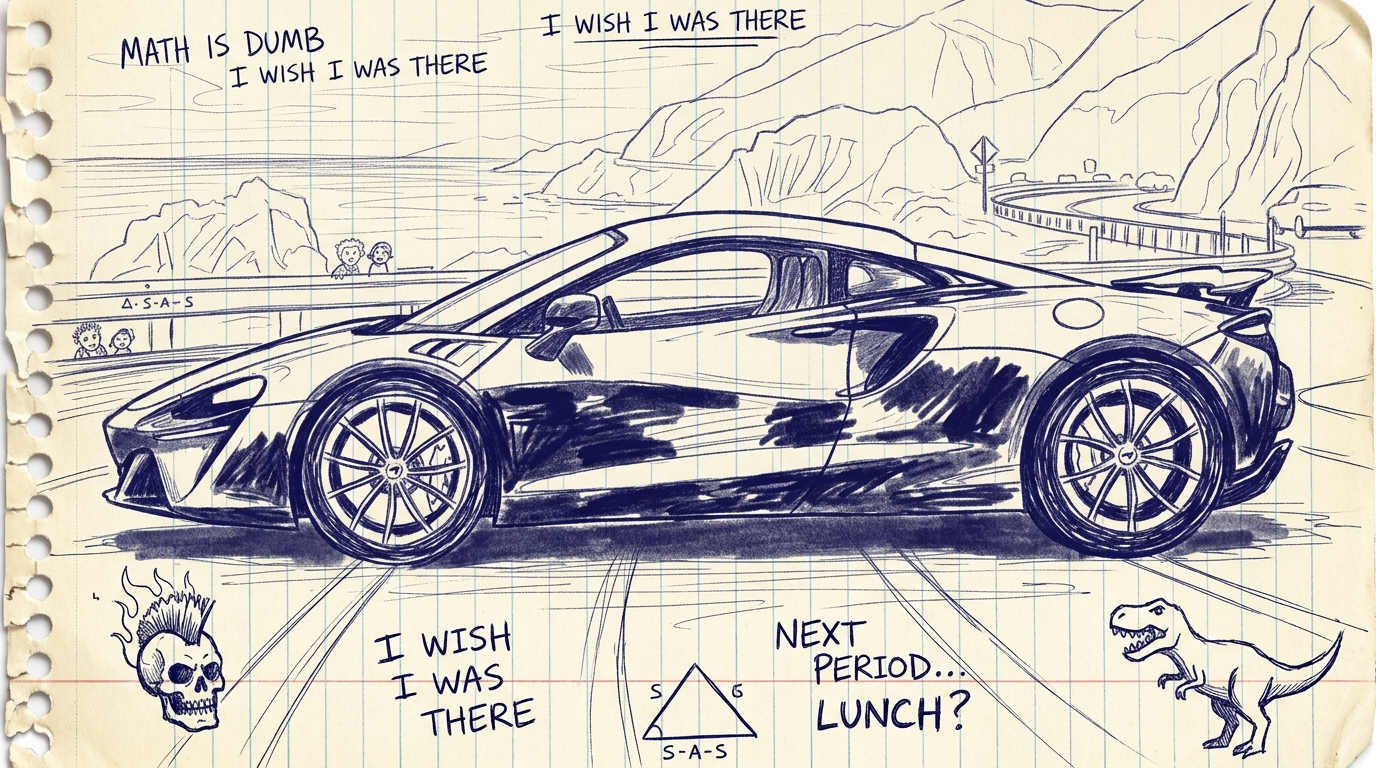
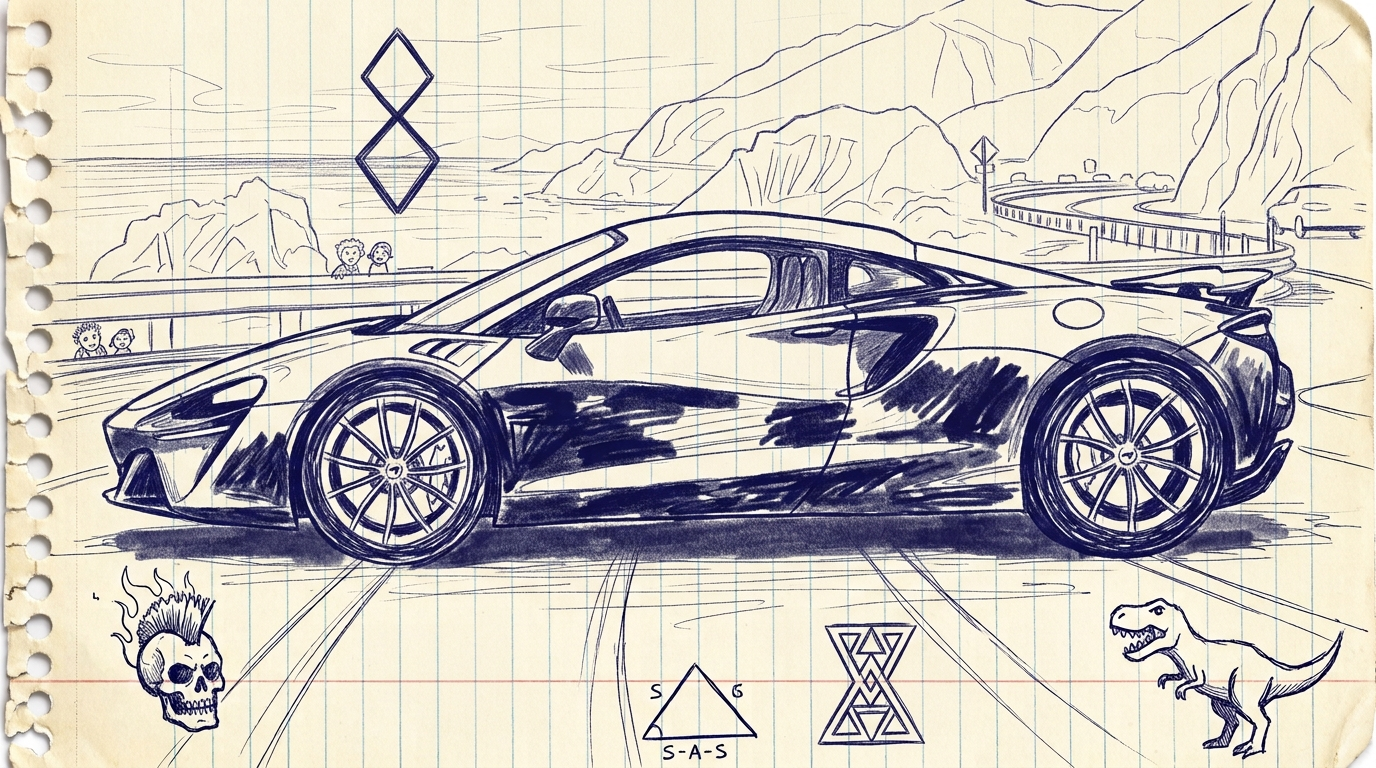
Text edits and dream car no text

diff --git a/public/index.html b/public/index.html
@@ -7,7 +7,7 @@
       name="description"
       content="A calm, number-free visual timer that transitions between two images."
     />
-    <title>Between — Visual Timer</title>
+    <title>Between — Right Brain Timer</title>
     <link rel="stylesheet" href="styles.css" />
   </head>
   <body>
@@ -17,7 +17,7 @@
           <span class="wordmark-mark" aria-hidden="true"></span>
           Between
         </a>
-        <p>A visual timer for quiet transitions.</p>
+        <p>A visual timer for serene transitions.</p>
       </header>
 
       <section class="timer-card" aria-labelledby="page-title">
@@ -80,7 +80,7 @@
           <form id="timerForm">
             <div class="preset-row">
               <label class="field-label" for="presetPicker">
-                <span>Preset loadout</span>
+                <span>Presets</span>
                 <button
                   class="image-picker preset-picker"
                   id="presetPicker"
@@ -89,7 +89,7 @@
                 >
                   <span class="picker-thumb" id="presetThumb" aria-hidden="true"></span>
                   <span class="picker-copy">
-                    <strong id="presetTitle">Custom settings...</strong>
+                    <strong id="presetTitle">Presets</strong>
                     <span id="presetSubtitle">Choose a predefined transition</span>
                   </span>
                   <span class="upload-icon" aria-hidden="true">
@@ -153,7 +153,7 @@
                 <svg viewBox="0 0 24 24" fill="none" aria-hidden="true">
                   <path d="m9 6 6 6-6 6" />
                 </svg>
-                Advanced settings
+                Additional settings
               </summary>
               <div class="advanced-panel">
                 <fieldset class="wipe-fieldset">
